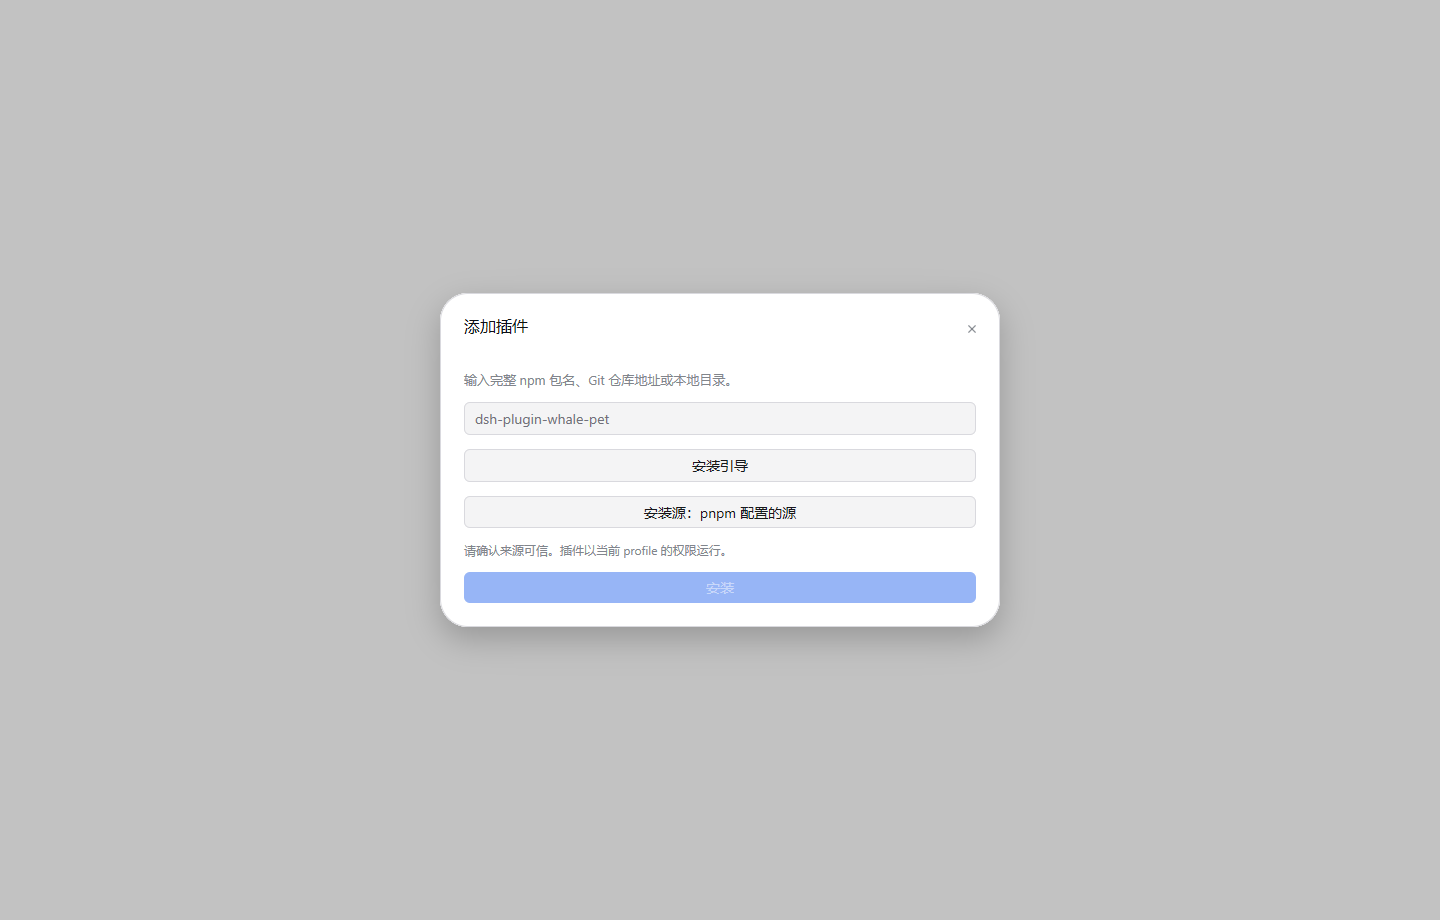
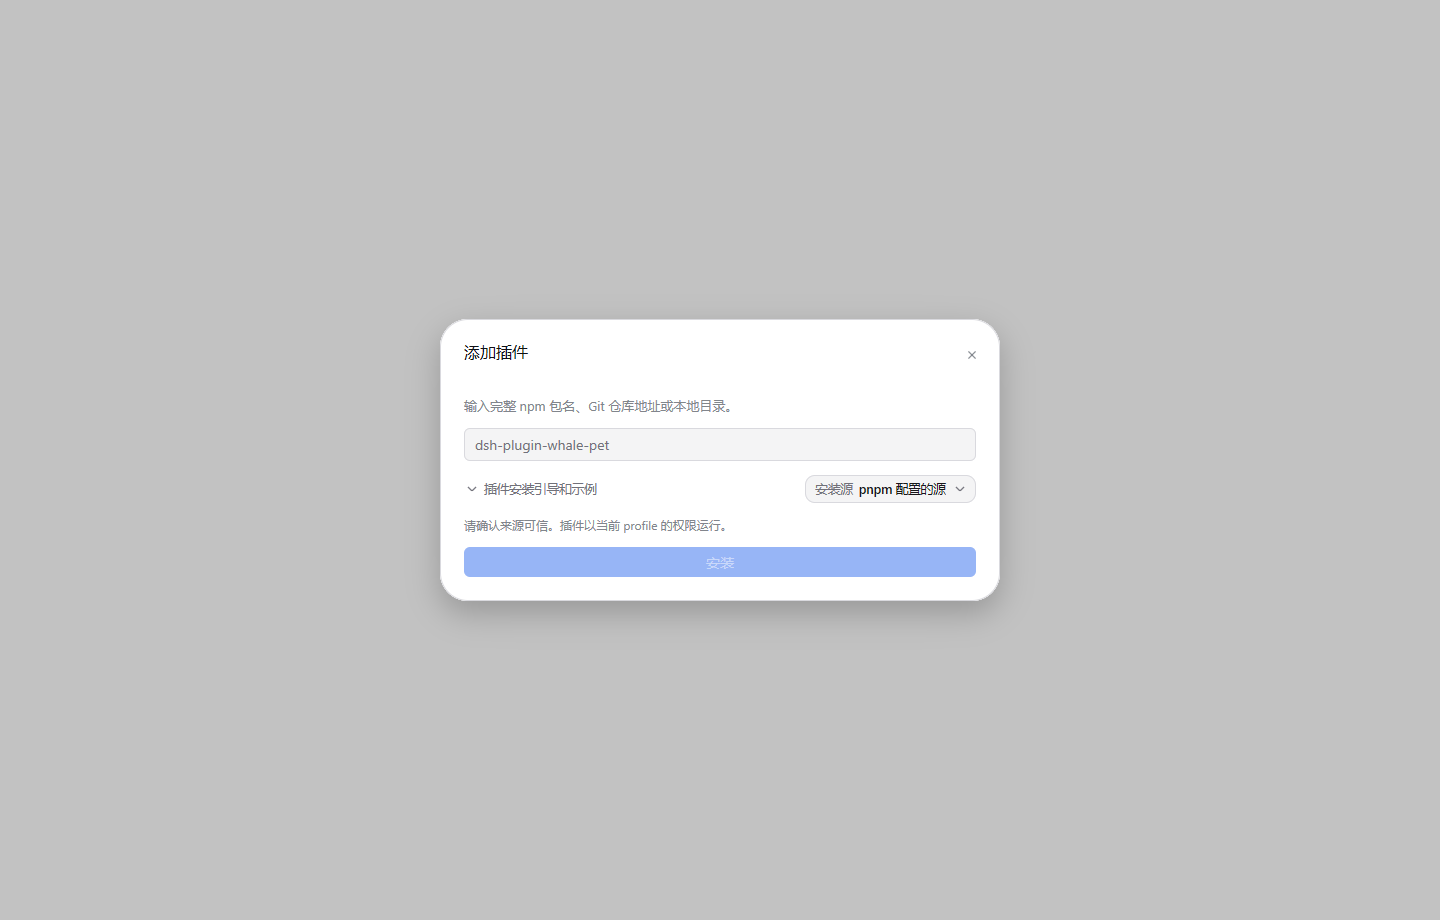
docs: record the install options row in the round 5 note
D27 covers the reference .optionsRow/.guideToggle/.registryToggle shapes and the geometry the render now matches; the note's verification lists the new tests and the byte-identical re-renders of the cards the change leaves alone, and the round 4 residual for the two toggles is marked resolved.

Changed region(s): [[0.2812, 0.3043, 0.7188, 0.7], [0.5625, 0.487, 0.6875, 0.5478], [0.4688, 0.487, 0.5312, 0.5174]]

diff --git a/docs/review-20261022/round5-close-gestures.md b/docs/review-20261022/round5-close-gestures.md
@@ -1,11 +1,12 @@
-# 第 5 阶段：快捷键弹窗的关闭手势
+# 第 5 阶段：快捷键弹窗的关闭手势与插件安装卡的选项行
 
 日期：2026-10-22
 参考：`reference/electron/vendor/deepseek-harness/packages/client/ui-shortcuts/src/client/Reference.tsx`
 （`:96-108` `closeReference`：先收行内编辑器、再关弹窗；`:155-159` 内容区 `onPointerDownCapture` 在非交互区域按下时 `closeEditor()`；`:162` 关闭盒与 `:204-210` 底栏重置都调用同一关闭入口，重置前 `setTarget(null)`）、
-`.../packages/client/ui-primitives/src/Modal.tsx`（`:70` 遮罩 `onClick={onClose}`）、`Editor.tsx`（`:163-180` 行内控件只有 `恢复默认`/`移除`/录键器，标签本身不是控件）。
-当前：生产渲染 + `ui.Tester` 键盘/指针事件（`internal/ui/settings/shortcut_dialog_affordance_test.go`）。
-本轮所有改动都落在关闭手势上：弹窗表面、尺寸、行节奏沿用第 4 轮的几何结论，未再改动。
+`.../packages/client/ui-primitives/src/Modal.tsx`（`:70` 遮罩 `onClick={onClose}`）、`Editor.tsx`（`:163-180` 行内控件只有 `恢复默认`/`移除`/录键器，标签本身不是控件）、
+`.../packages/client/ui-plugin-manager/src/client/PluginManagerPage.module.css`（`:714` `.optionsRow` 两端对齐、`:723-759` `.registryToggle` 28 高带 0.5 描边、`:592-615` `.guideToggle` 12.5 文字开关 + 160ms 旋转的箭头）、`PluginManagerPage.tsx`（`:1005-1029` 两个开关的次序与文案）。
+当前：生产渲染 + `ui.Tester` 键盘/指针事件（`internal/ui/settings/shortcut_dialog_affordance_test.go`、`internal/ui/pluginmanager/install_options_row_test.go`）。
+本轮的弹窗表面、尺寸、行节奏沿用第 4 轮的几何结论，未再改动。
 
 ## 1. 差异清单
 
@@ -16,6 +17,7 @@
 | D24 | 遮罩 `onClick={onClose}` 也走 `closeReference`（`Modal.tsx:70`） | 点遮罩直接关弹窗 | 点外一次退出两层 |
 | D25 | 底栏“恢复全部默认”在打开确认前 `setTarget(null)`（`Reference.tsx:206`） | `RequestReset` 只清 `Recording`，`target` 仍指向该行 | 确认框打开时其下仍是行内编辑器，Esc 的层级语义不清 |
 | D26 | 编辑态的行标签是普通文本，不是控件，也不可聚焦（`Reference.tsx:188`） | 标签是 `ui.Button`，成为编辑态第 4 个 Tab 停靠点与一个可宣读控件 | 键盘用户在行内多停一站，与参考的 3 个控件（恢复默认/移除/录键器）不同 |
+| D27 | 安装卡的空态：`.optionsRow` 一行两端对齐，左边是 `.guideToggle`（16 DIP 箭头 + 12.5 DIP 次要色文字，无描边无填充，展开时文案变“收起引导”、箭头 160ms 转 180°），右边是 `.registryToggle`（28 高、0.5 描边、圆角、选中名 500 字重主要色 + 末尾箭头） | 两个整宽 32 高描边按钮上下堆叠，文字居中，没有箭头；文案是“安装引导”“安装源：<名字>” | 选项行占掉两整行、像表单按钮而不是参考的开关；注册表选择没有“当前值”的层级 |
 
 ## 2. 修复清单
 
@@ -23,6 +25,9 @@
 | --- | --- |
 | `internal/ui/settings/shortcuts.go` | 新增 `shortcutCloseReference(open, e, target)`：有行内编辑器时只 `CancelRecording` 并清空 `target`，否则关闭弹窗；关闭盒改为调用它。弹窗内容在 `*target != ""` 时把 `Escape` 注册到 panel（非 overlay，位于焦点链上，优先于 backdrop 的关窗处理），并接管遮罩点击（`backdrop.Clicked()` 时收编辑器并恢复 `*open = true`，使第一下只退一层）。底栏“恢复全部默认”在 `RequestReset` 前清 `target`；清空后弹窗不再注册 panel 级 Escape，确认框独占 Esc。行内编辑器的标签由 `ui.Button` 改为不可聚焦的 `ui.Box` + `Clicked()`（保留“点标签收起编辑器”的指针路径，去掉多出的 Tab 停靠点）。 |
 | `internal/ui/settings/shortcut_dialog_affordance_test.go` | 新增 5 条回归：关闭盒、Escape、遮罩、录键中 Escape、重置确认、标签非 Tab 停靠点。 |
+| `internal/ui/pluginmanager/install_registry.go` | 拆出 `installOptionsRow`（`.optionsRow`：一行、两端对齐、可换行）、`installGuideToggle`（`.guideToggle`：16 DIP 箭头在前、12.5 DIP、无描边、悬停转主要色、展开换文案）、`installRegistryToggle`（`.registryToggle`：28 高、0.5 描边、圆角 10、次要色标题 + 500 字重主要色选中名 + 末尾箭头）；`installGuidePanel` / `installRegistryPanel` 承接展开内容与浮层。新增 `installChevronAngle`（160ms ease-out 旋转，`c.After(16ms)` 续帧）与参考 `IconChevronDownOutlineRegular` 的箭头路径。 |
+| `internal/ui/pluginmanager/dialogs.go` | 空态调用改成选项行 + 引导面板 + 注册表面板三步；顺带修正该文件既有的 import 次序（gofmt）。 |
+| `internal/ui/pluginmanager/install_options_row_test.go` | 新增 4 条回归：选项行几何（引导 18 高、左 24；注册表 28 高、右 24；同一中线）、引导展开换文案、箭头 160ms 的 0→180→0 缓动、注册表展开露出选项。 |
 
 ## 3. 手势对照
 
@@ -35,6 +40,17 @@
 | 点行标签 | 编辑器收起（指针落在非交互区域） | 同左，但标签已不再可聚焦（`TestShortcutInlineEditorLabelIsNotATabStop`） |
 
 Esc 在录键器持有焦点时同样只退一层：MyGo 先把已注册为 Shortcut 的按键送给 panel，再轮到聚焦元素的 `HandleInput`，所以录键器不会把 Escape 当成非法组合键并弹出“审阅/重试”两条恢复动作。
+
+### 安装卡选项行（D27，1440×920，DIP）
+
+| 项目 | 参考声明 | 当前实测 |
+| --- | --- | --- |
+| 选项行 | `.optionsRow`：一行、`space-between`、可换行 | 一行，引导开关与注册表 chip 同中线（中心差 ≤1） |
+| 引导开关 | `.guideToggle`：12.5 文字、无边框、自左对齐、箭头在前 | 132.5×18 @ x=464（卡片左内边距 24） |
+| 引导文案 | `installGuideToggle` / `installGuideHide` | “插件安装引导和示例” / “收起引导” |
+| 箭头 | 16 DIP 图标，展开时 `rotate(180deg)`，`160ms ease` | 0°→180° 缓动 160ms（`TestInstallChevronAngleEasesOverTheReferenceDuration`） |
+| 注册表 chip | `.registryToggle`：28 高、0.5 描边、圆角、`bg-layer-2`、选中名 500 字重主要色 | 171×28 @ 右缘 976（卡片右内边距 24） |
+| 卡片高度 | 内容自适应 | 560×283（原 560×334，两个 32 高按钮换成一行 18/28 控件） |
 
 ## 4. 验证
 
@@ -51,11 +67,14 @@ go build -o whaleisle-pass5.exe ./cmd/whaleisle
 
 - 遮罩点击只退一层时，弹窗重绘与静止态逐像素一致（差异仅来自指针离开行后消失的 tooltip：bbox (744,43)-(875,74)），说明 `*open = true` 的接管没有让 200ms 淡入重播。
 - 标签换成 `ui.Box` 前后，`settings-shortcuts-editor-1440.png` 与 `settings-shortcuts-dialog-1440.png` 的 SHA-256 完全相同（纯语义改动，无视觉位移）。
+- 安装卡选项行：`docs/review-20261022/evidence/plugins-install-idle-1440.png` 重新生成（44068 字节；原 43069），`plugins-sources-1440.png`、`plugins-market-choice-1440.png`、`plugins-install-failed-1440.png` 重渲染后与既有证据逐字节一致，说明重构只动了空态选项行。
 
 ## 5. 残留
 
 1. **实机截图**：仍以生产 `ui.Tester` 渲染与键盘/指针事件为证据；本机 Host 门禁与 DPI 下未取得实机窗口截图。
-2. **安装卡的操作区**：参考把安全说明与主按钮放在固定 footer；原生仍放在滚动体内（第 4 轮遗留）。
-3. **`重新读取`**：参考底栏只有重置与计数；原生在草稿脏或读取失败时仍显示 `重新读取`，保留配置被外部改写的恢复路径（第 4 轮遗留）。
-4. **其余 🟡 弹窗**：projects/dirpick/workspacepicker/chat/usage/boot 尚未逐项接共享表面并补 1440×920 证据（第 4 轮遗留）。
-5. **分组标题**：参考有应用/输入/菜单/审批四组；原生没有输入与审批命令，只渲染应用组（第 4 轮遗留）。
+2. **安装卡的操作区**：参考把安全说明与主按钮放在固定 footer（`.installContent` 滚动、`.installFooter` 不动）；原生仍放在滚动体内，内容超出时才可见差异（第 4 轮遗留）。
+3. **引导面板的内层结构**：参考 `.guide` 是 0.5 描边圆角面板 + 有序列表（标题/提示/示例 + 每条“填入示例”）；原生仍是标题、说明与一个示例按钮的平铺（第 4 轮遗留）。
+4. **`重新读取`**：参考底栏只有重置与计数；原生在草稿脏或读取失败时仍显示 `重新读取`，保留配置被外部改写的恢复路径（第 4 轮遗留）。
+5. **其余 🟡 弹窗**：projects/dirpick/workspacepicker/chat/usage/boot 尚未逐项接共享表面并补 1440×920 证据（第 4 轮遗留）。
+6. **分组标题**：参考有应用/输入/菜单/审批四组；原生没有输入与审批命令，只渲染应用组（第 4 轮遗留）。
+

diff --git a/docs/review-20261022/round4-dialog-surface.md b/docs/review-20261022/round4-dialog-surface.md
@@ -79,6 +79,6 @@ go build -o whaleisle-pass4.exe ./cmd/whaleisle
 3. **`重新读取`**：参考底部只有重置与计数；原生在草稿脏或读取失败时仍显示 `重新读取`，保留配置被外部改写的恢复路径。
 4. **分组标题**：参考有应用/输入/菜单/审批四组；原生没有输入与审批命令，按“空组不显示标题”只渲染应用组。
 5. **安装卡的操作区**：参考把安全说明与主按钮放在固定 footer；原生仍把动作放在滚动体内（视觉一致，滚动时按钮会随内容移动）。
-6. **安装引导/索引源开关**：原生是整宽描边按钮，参考是带箭头的文字切换按钮；属于内容控件，未在本轮改。
+6. ~~**安装引导/索引源开关**~~：第 5 轮已收口，空态选项行按 `.optionsRow`/`.guideToggle`/`.registryToggle` 改成左侧 12.5 文字开关（带 160ms 旋转箭头）与右侧 28 高描边 chip（`round5-close-gestures.md`）。
 7. **`settings/onboarding`**：参考本身是全屏 overlay（`OnboardingSurface.module.css`：`position: fixed; inset: 0`，无圆角），原生也是 100%×100%、圆角 0，故覆盖矩阵改标 ➖，不再作为“待接共享表面”。
 8. **实机截图**：仍以生产 `ModalView`/`ui.Tester` 无头渲染 + 测试为证据；实机窗口受 Host 门禁与 DPI 限制未取得。

diff --git a/docs/review-20261022/coverage-matrix.md b/docs/review-20261022/coverage-matrix.md
@@ -40,7 +40,7 @@
 | composer/voice_setup.go | 1 | ✅ | 共享表面 + composer 测试 |
 | composer/attachment_display.go | 1 | 🟡 | 遮罩/20px 圆角/裁剪 |
 | pluginmanager/confirmationDialog | 1 | ✅ | 共享表面 + pluginmanager 测试 |
-| pluginmanager/installDialog | 1 | ✅ | 560 宽内容自适应、共享表面（淡入/玻璃/投影/描边）、22/14/12/24 头部；见 `round4-dialog-surface.md` |
+| pluginmanager/installDialog | 1 | ✅ | 560 宽内容自适应、共享表面（淡入/玻璃/投影/描边）、22/14/12/24 头部；空态选项行按 `.optionsRow`（引导文字开关 + 28 高注册表 chip）；见 `round4-dialog-surface.md`、`round5-close-gestures.md` |
 | pluginmanager/index-sources | 1 | ✅ | 同上；底部重复 `关闭` 与内层重复标题已移除 |
 | pluginmanager/market-choice | 1 | ✅ | 同上；头部关闭 + 底部 `取消/安装` |
 | market/confirmationView | 1 | ✅ | 共享表面 + market 测试 |
